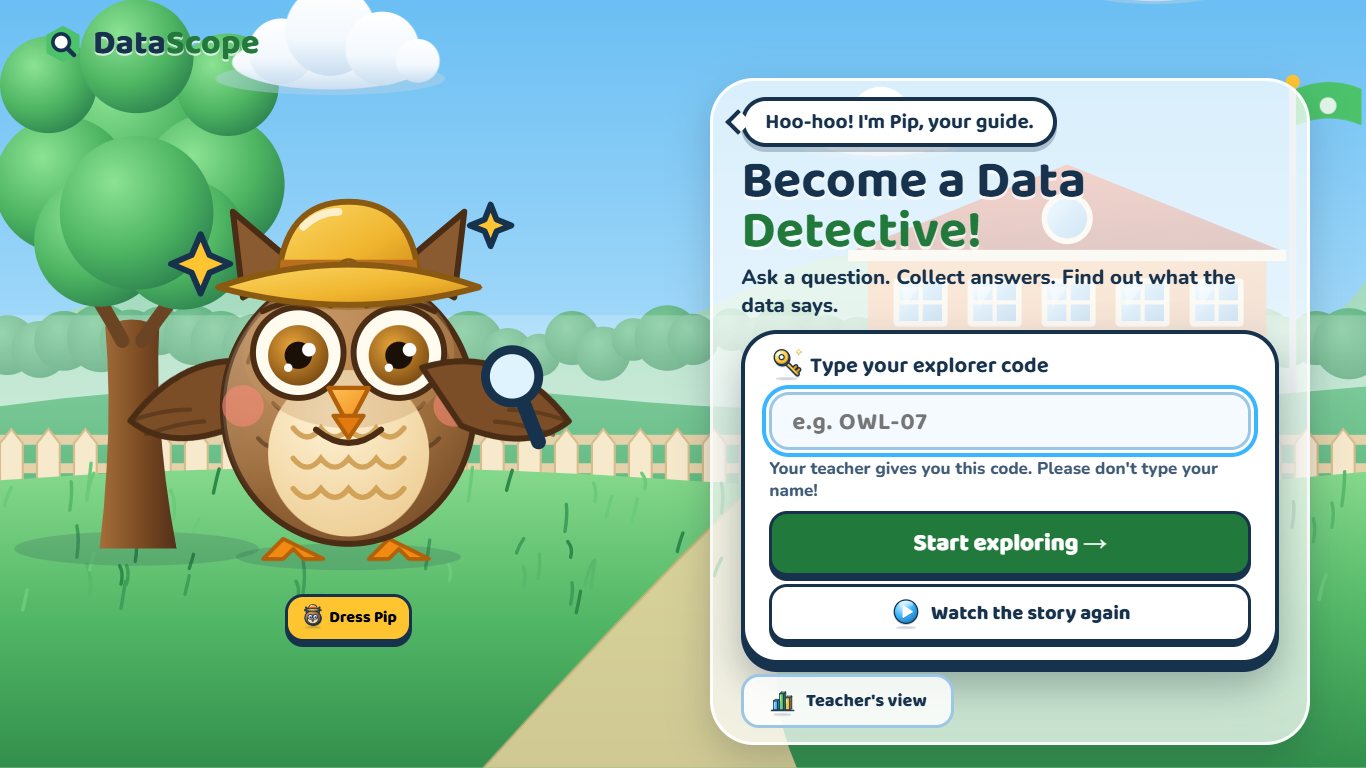
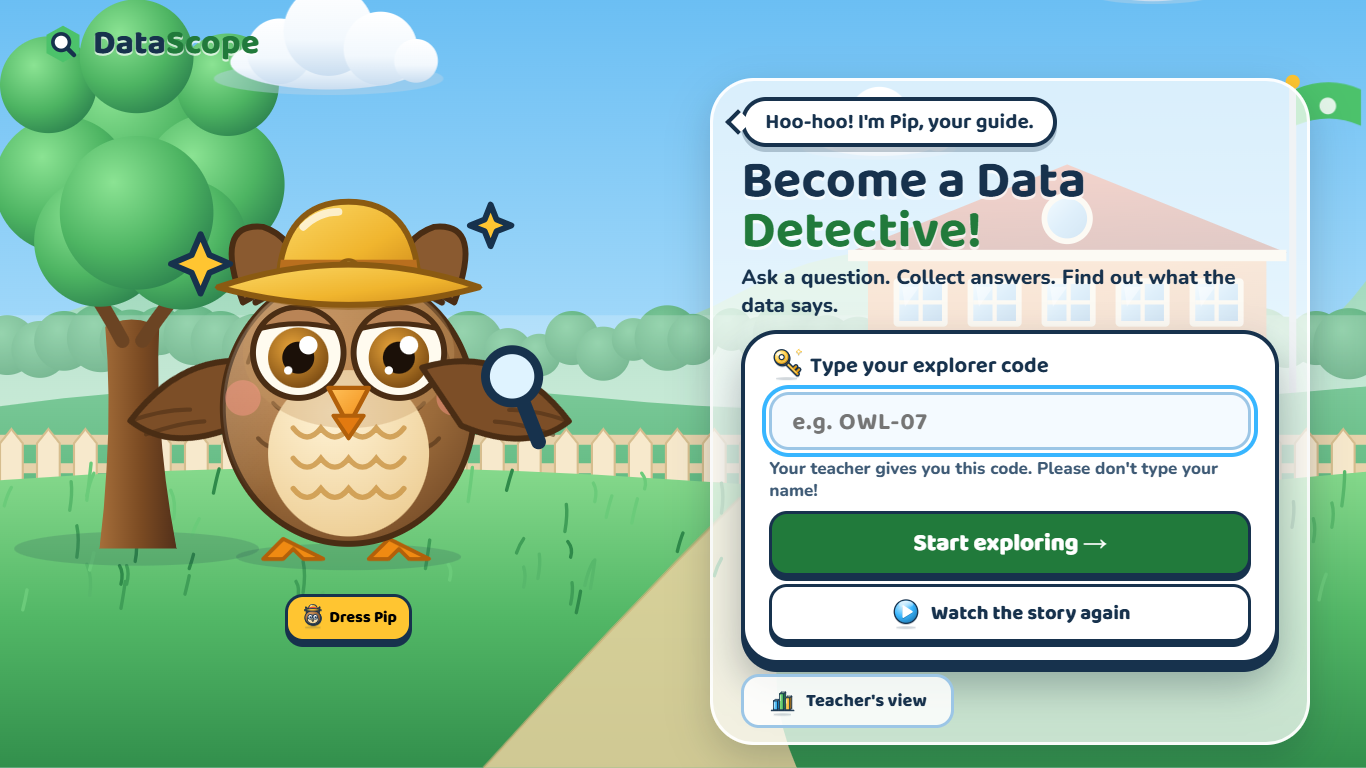
Part 59p4: Pip's face from Habiba's own SVG (rounded tufts, small arched eyelids)
- js/pip.js: rounded ear tufts, small arched upper eyelids, iris a little low
  with a big sparkle, the mockup's eyebrows, soft pink cheeks, no smile line;
  drawn at 85% so all 16 outfits still fit. No blur filter, no inline animation.

diff --git a/js/pip.js b/js/pip.js
@@ -48,12 +48,16 @@ const BODY_FEATHERS = [[29.4, 86.9], [39.6, 97.1], [70.2, 97.1], [80.4, 86.9], [
   .map(([x, y]) => feather(x, y)).join(' ');
 const BELLY_FEATHERS = (y) => `M41.3 ${y} q4.7 6 9.35 0 q4.7 6 9.35 0 q4.7 6 9.35 0 q4.7 6 9.35 0`;
 // One eye: the iris and pupil (in .pip-pupils, so they can look up) are drawn separately.
-const iris = (cx) => `<circle cx="${cx}" cy="58.9" r="10.2" fill="url(#ds-pip-iris)"/><circle class="pip-pupil" cx="${cx}" cy="58.9" r="4.6" fill="#1B1008"/><circle class="pip-shine" cx="${cx + 3.6}" cy="57" r="2.3" fill="#fff"/><circle cx="${cx - 3.4}" cy="63.1" r="1.4" fill="#fff"/>`;
-// Happy face (Habiba, 10 Nov 2026). Tried and rejected: eyelids and lines
-// under the eyes ("like he wants to cry"), light cheeks under the eyes ("puffy
-// eyes"). Kept: clear eyes with slightly smaller pupils and one small sparkle,
-// thin relaxed eyebrows, rosy pink cheeks on the face and a small smile under
-// the beak. Versions compared in docs/design/screens/after/pip-eye-versions-*.png.
+const iris = (cx) => `<circle cx="${cx}" cy="59.7" r="10.2" fill="url(#ds-pip-iris)"/><circle class="pip-pupil" cx="${cx}" cy="59.7" r="5.4" fill="#1B1008"/><circle class="pip-shine" cx="${cx + 3.4}" cy="55.5" r="3.1" fill="#fff"/><circle cx="${cx - 3.4}" cy="64" r="1.4" fill="#fff"/>`;
+// A small arched upper eyelid: its lower edge curves UP, so Pip looks alert
+// and friendly (not sleepy). Static: the blink lids (.pip-lids) close over it.
+const eyelid = (cx) => `<path d="M${cx - 13} 49.9 A15.3 15.3 0 0 1 ${cx + 13} 49.9 Q${cx} 46.5 ${cx - 13} 49.9Z" fill="#B98456" stroke="#4A2D14" stroke-width="1.7" stroke-linejoin="round"/>`;
+// Pip's face (Habiba's own Pip SVG, pasted 10 Nov 2026, drawn here at 85%
+// like the rest of him): rounded ear tufts, a small arched eyelid on each eye,
+// the iris a little low, soft eyebrows and pink cheeks. It replaces the
+// versions tried before (droopy lids, lines or light cheeks under the eyes, a
+// smile under the beak). Her SVG's blur filter and wing-flap animation are
+// left out: soft see-through cheeks instead, and Pip's moods move his wings.
 
 const WING_LEFT = `<path d="M26 61.4 Q2.2 80.1 12.4 112.4 Q29.4 107.3 34.5 83.5Z" fill="#7C4E27" ${LINE}/><path d="M12.4 112.4 Q15.8 100.5 20.9 93.7 M19.2 110.7 Q22.6 98.8 26.9 92" ${SOFT}/>`;
 const WING_RIGHT = `<path d="M94 61.4 Q117.8 80.1 107.6 112.4 Q90.6 107.3 85.5 83.5Z" fill="#7C4E27" ${LINE}/><path d="M107.6 112.4 Q104.2 100.5 99.1 93.7 M100.8 110.7 Q97.4 98.8 93.1 92" ${SOFT}/>`;
@@ -68,8 +72,8 @@ export function pipSVG(label = '', outfit = currentOutfit()) {
     ${layer(outfit, 'back')}
     <path class="pip-foot" d="M37.9 120.9 l-6.8 6.8 h6.8 l3.4 -3.4 l3.4 3.4 h6.8 Z M73.6 120.9 l-6.8 6.8 h6.8 l3.4 -3.4 l3.4 3.4 h6.8 Z" fill="#F08A12" stroke="#B2600A" stroke-width="1.3" stroke-linejoin="round"/>
     <g class="pip-wing pip-wing-left">${WING_LEFT}</g>
-    <path class="pip-tuft" d="M24.3 39.3 L20.9 10.4 L43 29.1Z" fill="#8A5A30" ${LINE}/>
-    <path class="pip-tuft" d="M95.7 39.3 L99.1 10.4 L77 29.1Z" fill="#8A5A30" ${LINE}/>
+    <path class="pip-tuft" d="M24.3 41 Q14.1 13.8 31.1 15.5 Q41.3 18.9 43 30.8Z" fill="#8A5A30" ${LINE}/>
+    <path class="pip-tuft" d="M95.7 41 Q105.9 13.8 88.9 15.5 Q78.7 18.9 77 30.8Z" fill="#8A5A30" ${LINE}/>
     <ellipse class="pip-body" cx="60" cy="76.7" rx="42.5" ry="45.9" fill="url(#ds-pip-body)" ${LINE}/>
     <ellipse cx="60" cy="76.7" rx="42.5" ry="45.9" fill="url(#ds-shine)" opacity=".5"/>
     <path d="M26 61.4 Q29.4 49.5 39.6 47.8 M94 61.4 Q90.6 49.5 80.4 47.8 ${BODY_FEATHERS}" ${SOFT}/>
@@ -79,17 +83,17 @@ export function pipSVG(label = '', outfit = currentOutfit()) {
     <circle class="pip-eye" cx="43" cy="58" r="15.3" fill="#FFFBEF" ${LINE}/>
     <circle class="pip-eye" cx="77" cy="58" r="15.3" fill="#FFFBEF" ${LINE}/>
     <g class="pip-pupils">${iris(43)}${iris(77)}</g>
+    <g class="pip-eyelids">${eyelid(43)}${eyelid(77)}</g>
     <g class="pip-lids">
       <ellipse cx="43" cy="58" rx="16" ry="16" fill="#9A6A3A" ${LINE}/>
       <ellipse cx="77" cy="58" rx="16" ry="16" fill="#9A6A3A" ${LINE}/>
     </g>
-    <path class="pip-brows" d="M31 44 Q43 38 54 42 M66 42 Q77 38 89 44" stroke="#4A2D14" stroke-width="2" fill="none" stroke-linecap="round"/>
-    <circle class="pip-blush" cx="24.3" cy="76" r="7" fill="#FF8A7A" opacity=".55"/>
-    <circle class="pip-blush" cx="95.7" cy="76" r="7" fill="#FF8A7A" opacity=".55"/>
+    <path class="pip-brows" d="M28.6 41 Q43 32.5 55.8 41 M64.3 41 Q77 32.5 91.5 41" stroke="#4A2D14" stroke-width="2.2" fill="none" stroke-linecap="round"/>
+    <circle class="pip-blush" cx="24.3" cy="73.3" r="6" fill="#FF9A8B" opacity=".45"/>
+    <circle class="pip-blush" cx="95.7" cy="73.3" r="6" fill="#FF9A8B" opacity=".45"/>
     ${layer(outfit, 'neck')}
     ${layer(outfit, 'face')}
     ${layer(outfit, 'head')}
-    <path class="pip-smile" d="M49 84 Q60 93 71 84" stroke="#4A2D14" stroke-width="2" fill="none" stroke-linecap="round"/>
     <g class="pip-beak">
       <path d="M53.2 69.9 L66.8 69.9 L60 82.7Z" fill="url(#ds-pip-beak)" stroke="#B2600A" stroke-width="1.5" stroke-linejoin="round"/>
       <path d="M54.9 79.3 L65.1 79.3 L60 86.9Z" fill="#E27A10" stroke="#B2600A" stroke-width="1.4" stroke-linejoin="round"/>

diff --git a/docs/project-notes.md b/docs/project-notes.md
@@ -280,7 +280,8 @@ Parts 42 to 51. Claude commits each part; nothing is pushed until Habiba says "p
 | 59s+ | 10 Nov | `c41c234` | **Sara only in the story (Habiba):** from the Mission scene on, Pip is the main character. Mission scene: no Sara, Pip big in the middle (cheers on the last line). Rooms: no Sara in the left column; big Pip stands there alone and bigger (230 px at 1366), the card stays on the right. Start page: Pip alone and bigger. Tested: no `saraSVG` in the rooms, the start page or the Mission scene. |
 | 59p+ | 10 Nov | `5ae368c` | **Pip's friendly eyes (Habiba: "he looks kinda scary with those eyes staring"):** a small resting upper eyelid over each eye, a soft smiling line under it, and lighter eyebrows a little higher. Four versions compared (`docs/design/screens/after/pip-eye-versions.png`: big lids looked grumpy or sleepy; C chosen). Blink, wink, look-up and all 16 outfits still work (contact sheet). |
 | 59p++ | 10 Nov | `1f7787d` | **Pip's happy face (Habiba: with the eyelids "he looks like he wanna cry"):** the eyelids and the lines under the eyes are gone; soft light cheeks push up under each eye (a smiling eye shape, no dark line), the pupils are a little smaller with one small sparkle, the eyebrows are thin and relaxed, and a small smile sits under the beak (`pip-smile`). Compared at the size of the start page (`pip-eye-versions-2.png`: J chosen). Blink, moods, the story's talking beak and all 16 outfits still work. |
-| 59p+++ | 10 Nov | (this commit) | **Pip without puffy eyes (Habiba):** the light cheeks under the eyes are gone; instead rosy pink cheeks on the face (bigger blush). Kept: clear eyes, slightly smaller pupils with one sparkle, thin eyebrows, the smile under the beak (`pip-eye-versions-3.png`: L chosen). **Rejected for Pip, do not add back:** eyelids, lines under the eyes, light cheeks under the eyes. |
+| 59p+++ | 10 Nov | `52d1a7b` | **Pip without puffy eyes (Habiba):** the light cheeks under the eyes are gone; instead rosy pink cheeks on the face (bigger blush). Kept: clear eyes, slightly smaller pupils with one sparkle, thin eyebrows, the smile under the beak (`pip-eye-versions-3.png`: L chosen). |
+| 59p4 | 10 Nov | (this commit) | **Pip's face from Habiba's own SVG** (pasted 10 Nov), drawn at 85% like the rest of Pip: rounded ear tufts, a small arched upper eyelid on each eye (edge curving up: alert, not sleepy), the iris a little low with a big sparkle, the mockup's soft eyebrows, soft pink cheeks, no smile line. Her SVG's blur filter (cheeks) and wing-flap animation left out (see-through cheeks; the moods move the wings). All 16 outfits still fit (contact sheet). **This is Pip's face now; earlier tries (droopy lids, lines or light cheeks under the eyes, a smile) are not to come back.** |
 
 **Decision (Habiba, 10 Nov 2026):** Sara appears only in the story (scenes 1 to 6). Pip is the main character from the Mission scene on, on the start page and in every room.
 
